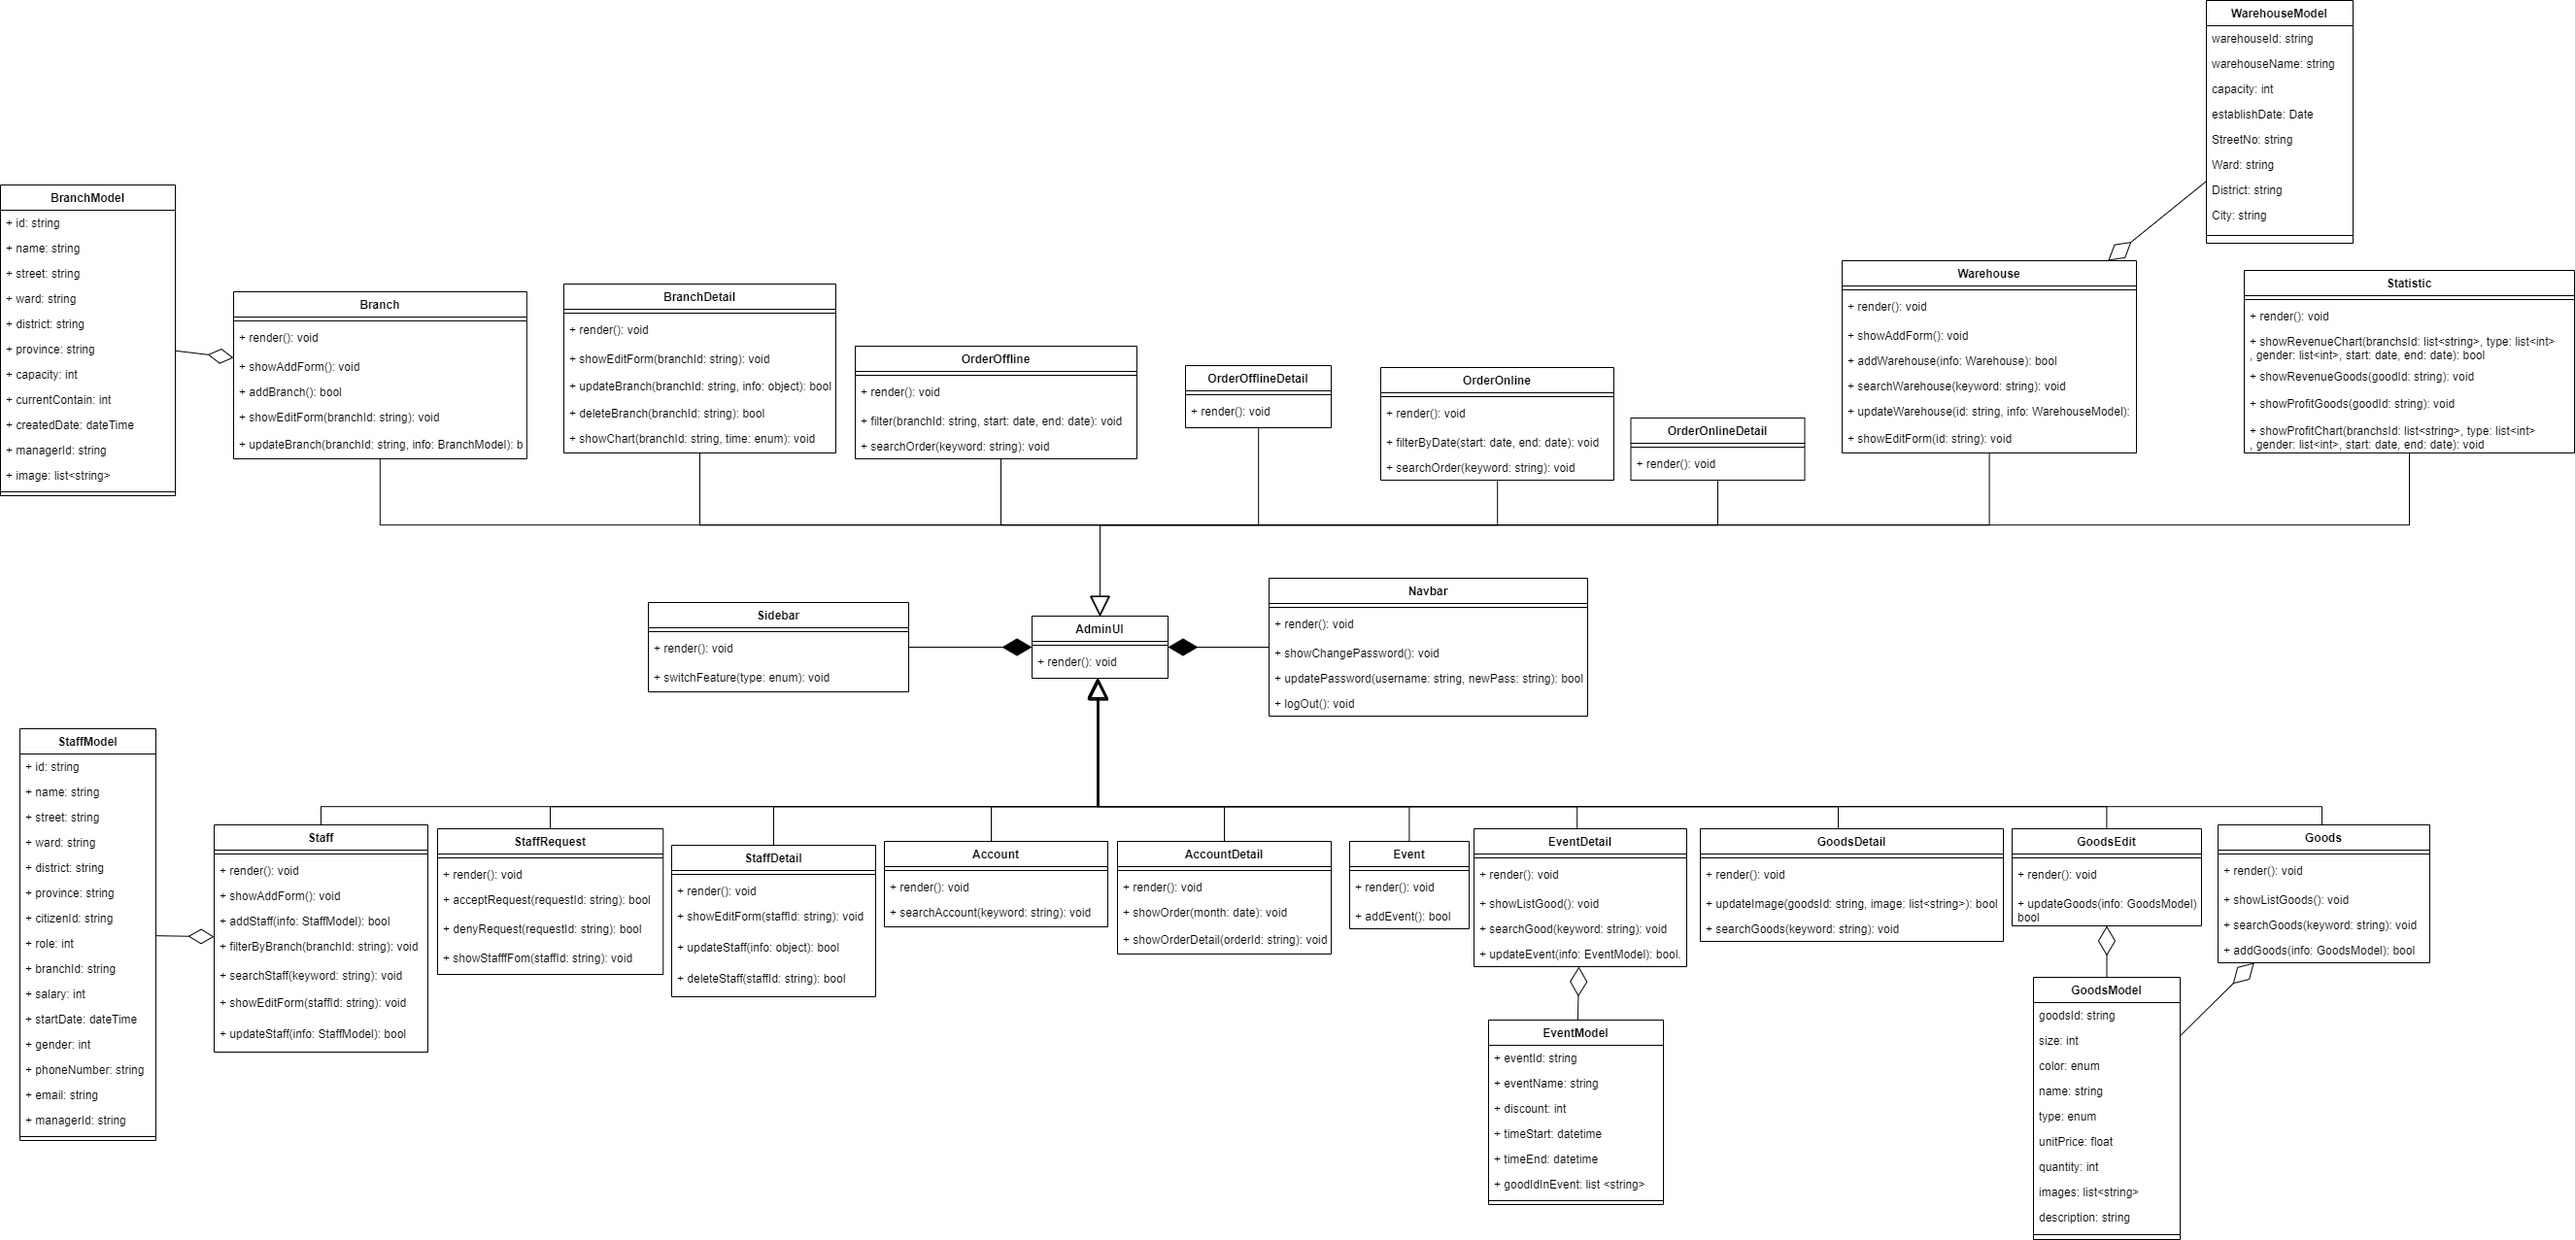
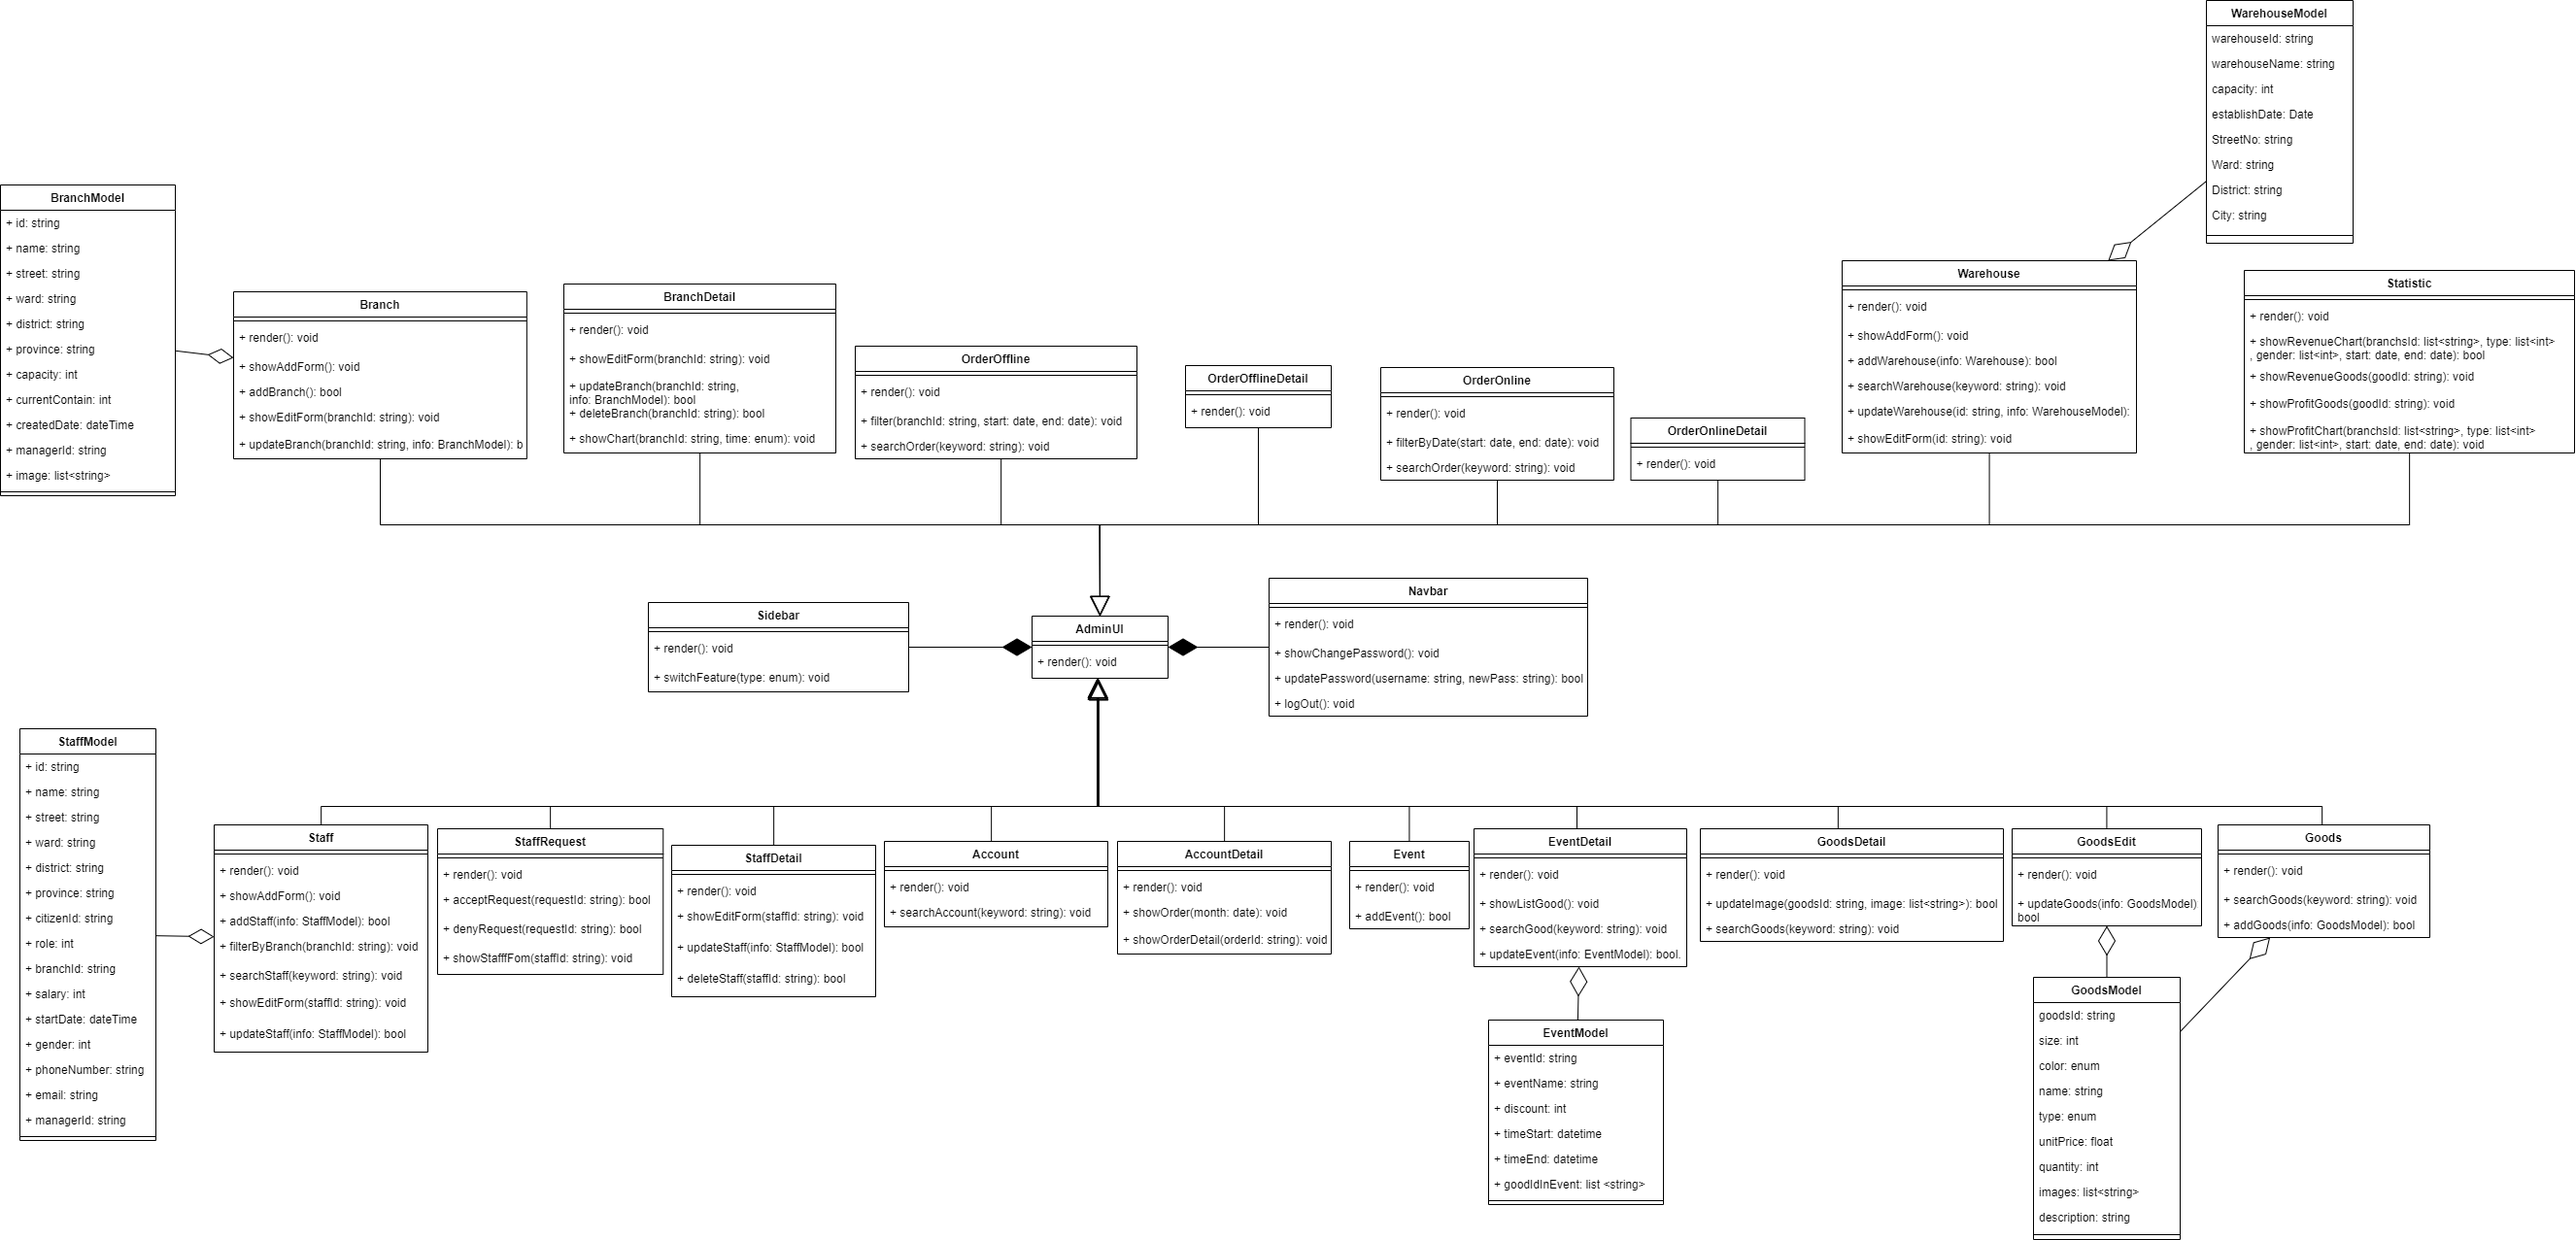
update AdminUI

diff --git a/tex/architecture.tex b/tex/architecture.tex
@@ -1,4 +1,5 @@
 % !TeX root = ..\main.tex
+
 \section{Kiến trúc hệ thống}
 \subsection{Tổng quan}
 \begin{figure}[!htp]
@@ -9,8 +10,6 @@
 \end{figure}
 
 \subsection{Tầng UI}
-
-
 
 
 \subsubsection{CustomerUI}
@@ -144,16 +143,11 @@ LoginUI là một class dùng để hiển thị trang đăng nhập cho cả ph
 	\newline
 	\caption{Lược đồ class của LoginUI}
 \end{figure}
-\textbf{Mô tả:}
-\begin{quote}
-	\begin{itemize}
-		\item CustomerUI
-		\item NavBar
-		\item Header
-		\item Footer
-		\item ..
-	\end{itemize}
-\end{quote}
+Phương thức:
+\begin{itemize}
+	\item showPassword(): Hiện mật khẩu
+	\item login(username: string, password: string)(): Đăng nhập vào hệ thống
+\end{itemize}
 
 \subsubsection{AdminUI}
 Module này bao gồm các class dùng để hiển thị UI đối với phía quản trị viên
@@ -164,16 +158,120 @@ Module này bao gồm các class dùng để hiển thị UI đối với phía 
 	\newline
 	\caption{Lược đồ class của Module AdminUI}
 \end{figure}
-\textbf{Mô tả:}
-\begin{quote}
-	\begin{itemize}
-		\item CustomerUI
-		\item NavBar
-		\item Header
-		\item Footer
-		\item ..
-	\end{itemize}
-\end{quote}
+
+\subsubsubsection*{AdminUI}
+Phương thức:
+\begin{itemize}
+	\item render(): Trình chiếu màn hình admin
+\end{itemize}
+
+\subsubsubsection*{Branch}
+Phương thức:
+\begin{itemize}
+	\item showAddForm(): Trình chiếu biểu mẫu thêm mới
+	\item addBranch(): Thêm chi nhánh mới
+	\item showEditForm(branchId: string): Trình chiếu biểu mẫu chỉnh sửa
+	\item updateBranch(branchId: string, info: BranchModel): Cập nhật thông tin chi nhánh
+\end{itemize}
+
+\subsubsubsection*{BranchDetail}
+Phương thức:
+\begin{itemize}
+	\item showEditForm(branchId: string): Trình chiếu biểu mẫu chỉnh sửa
+	\item updateBranch(branchId: string, info: BranchModel): Cập nhật thông tin chi nhánh
+	\item deleteBranch(branchId: string): Xóa chi nhánh
+	\item showChart(branchId: string, time: enum): Trình chiếu biểu đồ kinh doanh 
+\end{itemize}
+
+\subsubsubsection*{Staff}
+Phương thức:
+\begin{itemize}
+	\item showAddForm(): Trình chiếu biểu mẫu thêm mới
+	\item addStaff(info: StaffModel): Thêm một nhân viên
+	\item filterByBranch(branchId: string): Tìm nhân viên theo chi nhánh
+	\item searchStaff(keyword: string): Tìm kiếm chi nhánh theo từ khóa
+	\item showEditForm(staffId: string): Trình chiếu biểu mẫu chỉnh sửa
+	\item updateStaff(branchId: string, info: BranchModel): Cập nhật thông tin chi nhánh
+\end{itemize}
+
+\subsubsubsection*{StaffRequest}
+Phương thức:
+\begin{itemize}
+	\item acceptRequest(requestId: string): Xác nhận yêu cầu
+	\item denyRequest(requestId: string): Hủy bỏ yêu cầu
+	\item showStafffFom(staffId: string): Trình chiếu biểu mẫu thông tin nhân viên
+\end{itemize}
+
+
+\subsubsubsection*{StaffDetail}
+Phương thức:
+\begin{itemize}
+	\item showEditForm(staffId: string): Trình chiếu biểu mẫu chỉnh sửa
+	\item updateStaff(info: StaffModel): Cập nhật thông tin nhân viên
+	\item deleteBranch(staffId: string): Xóa nhân viên
+\end{itemize}
+
+\subsubsubsection*{Account}
+Phương thức:
+\begin{itemize}
+	\item searchAccount(keyword: string): Tìm kiếm tài khoản theo từ khóa
+\end{itemize}
+
+
+\subsubsubsection*{AccountDetail}
+Phương thức:
+\begin{itemize}
+	\item showOrder(month: date): Trình chiếu danh sách đơn hàng
+	\item showOrderDetail(orderId: string): Trình chiếu biểu mẫu chi tiết đơn hàng  
+\end{itemize}
+
+\subsubsubsection*{Event}
+Phương thức:
+\begin{itemize}
+	\item addEvent(): Thêm một sự kiện mới
+\end{itemize}
+
+\subsubsubsection*{AccountDetail}
+Phương thức:
+\begin{itemize}
+	\item showListGood(): Trình chiếu danh sách tất cả hàng
+	\item searchGood(keyword: string): Tùm kiếm danh sách hàng theo từ khóa
+	\item updateEvent(info: EventModel): Cập nhật thông tin sự kiện
+\end{itemize}
+
+\subsubsubsection*{Goods}
+Phương thức:
+\begin{itemize}
+	\item searchGoods(keyword: string): Tìm kiếm hàng theo từ khóa
+	\item addGoods(info: GoodsModel): Thêm một sản phẩm
+\end{itemize}
+
+\subsubsubsection*{GoodsDetail}
+Phương thức:
+\begin{itemize}
+	\item updateImage(goodsId: string, image: list<string>): Cập nhật hình ảnh sản phẩm
+	\item searchGoods(keyword: string): Tìm kiếm hàng theo từ khóa
+\end{itemize}
+
+\subsubsubsection*{GoodsDetail}
+Phương thức:
+\begin{itemize}
+	\item updateGoods(info: GoodsModel): Cập nhật thông tin sản phẩm
+\end{itemize}
+
+\subsubsubsection*{OrderOffline}
+Phương thức:
+\begin{itemize}
+	\item filter(branchId: string, start: date, end: date): Tìm kiếm đơn hàng theo thời gian, chi nhánh
+	\item searchOrder(keyword: string): Tìm kiếm đơn hàng theo từ khóa
+\end{itemize}
+
+\subsubsubsection*{OrderOnline}
+Phương thức:
+\begin{itemize}
+	\item filter(start: date, end: date): Tìm kiếm đơn hàng theo thời gian
+	\item searchOrder(keyword: string): Tìm kiếm đơn hàng theo từ khóa
+\end{itemize}
 
 
 

diff --git a/main.tex b/main.tex
@@ -211,7 +211,7 @@ KHOA KHOA HỌC \& KỸ THUẬT MÁY TÍNH
 
 % Architecture
 \newpage
-% \include{tex/architecture}
+\include{tex/architecture}
 %%%%%%%%%%%%%%%%%%%%%%%%%%%%%%%%%%%%
 
 % Database
